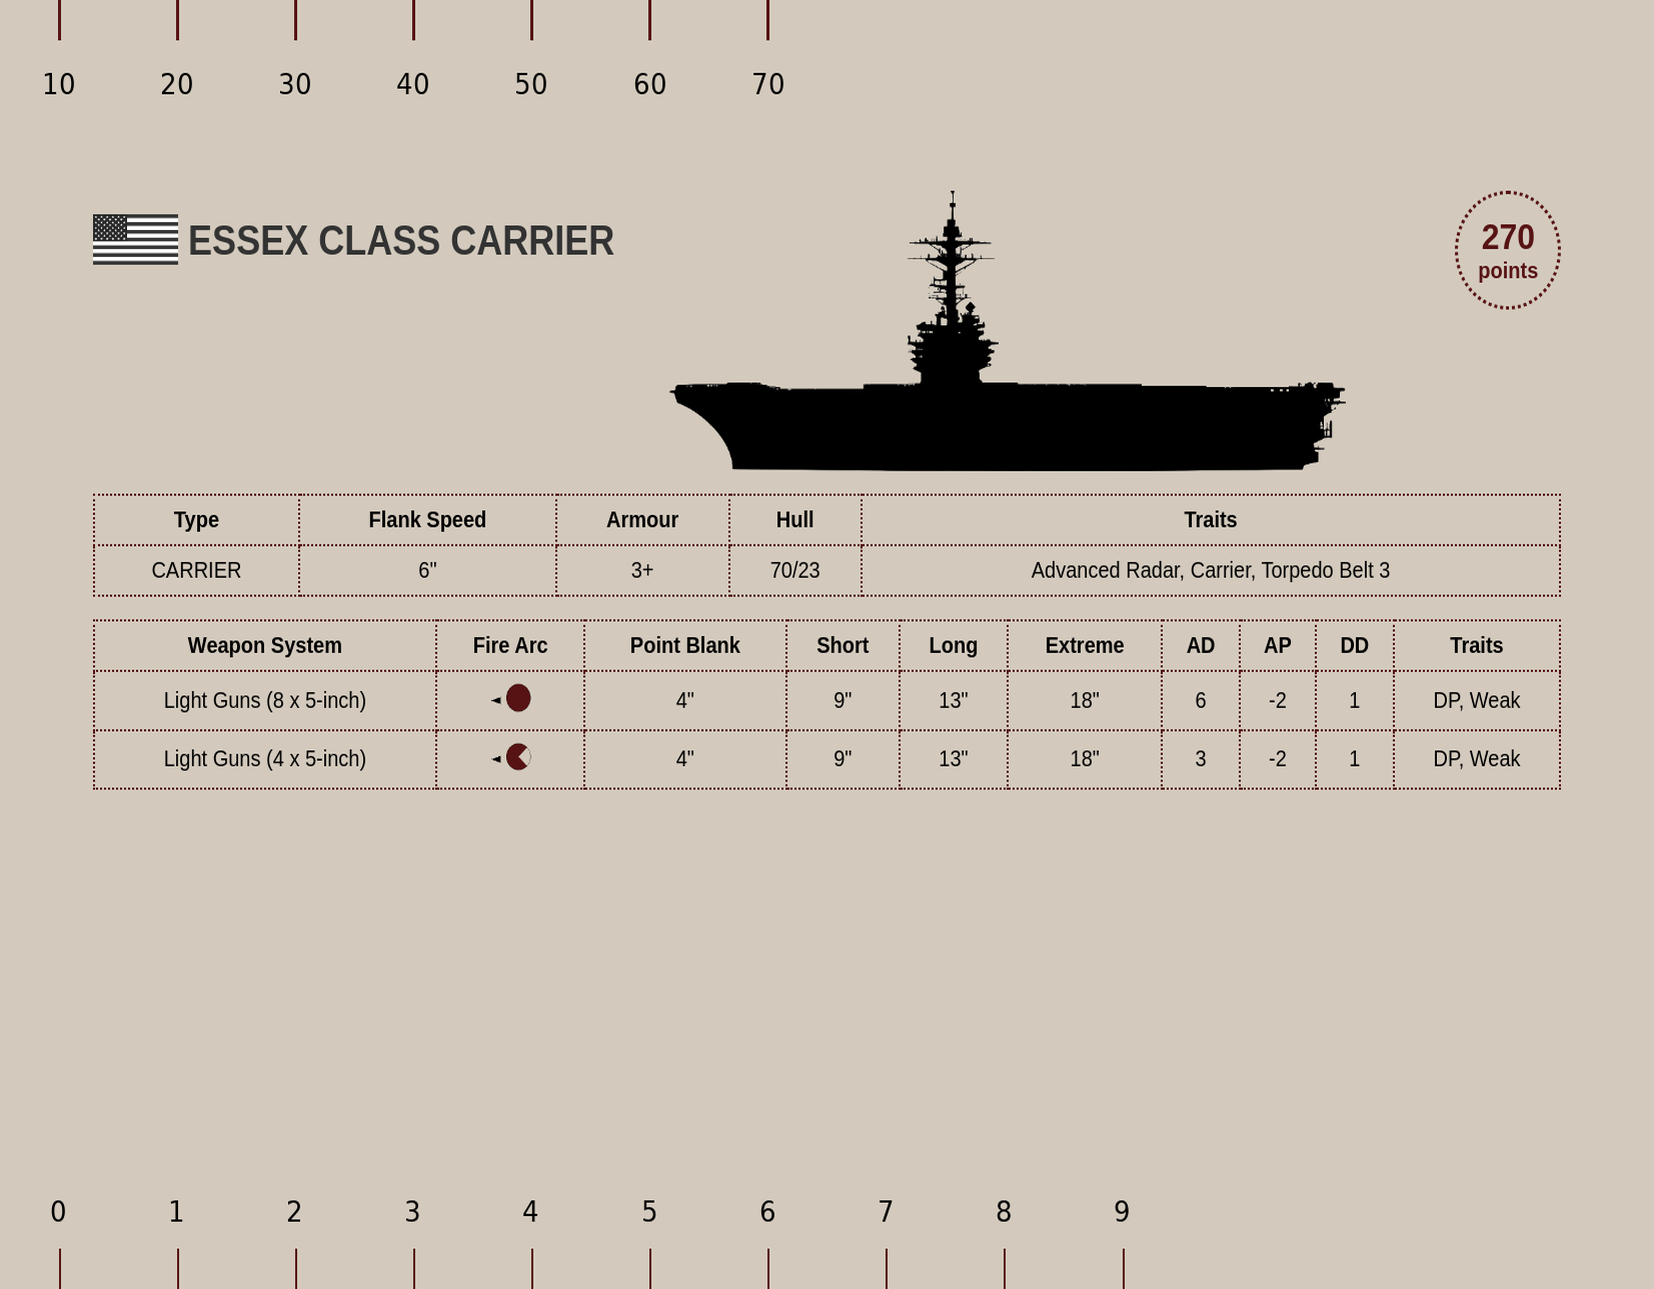
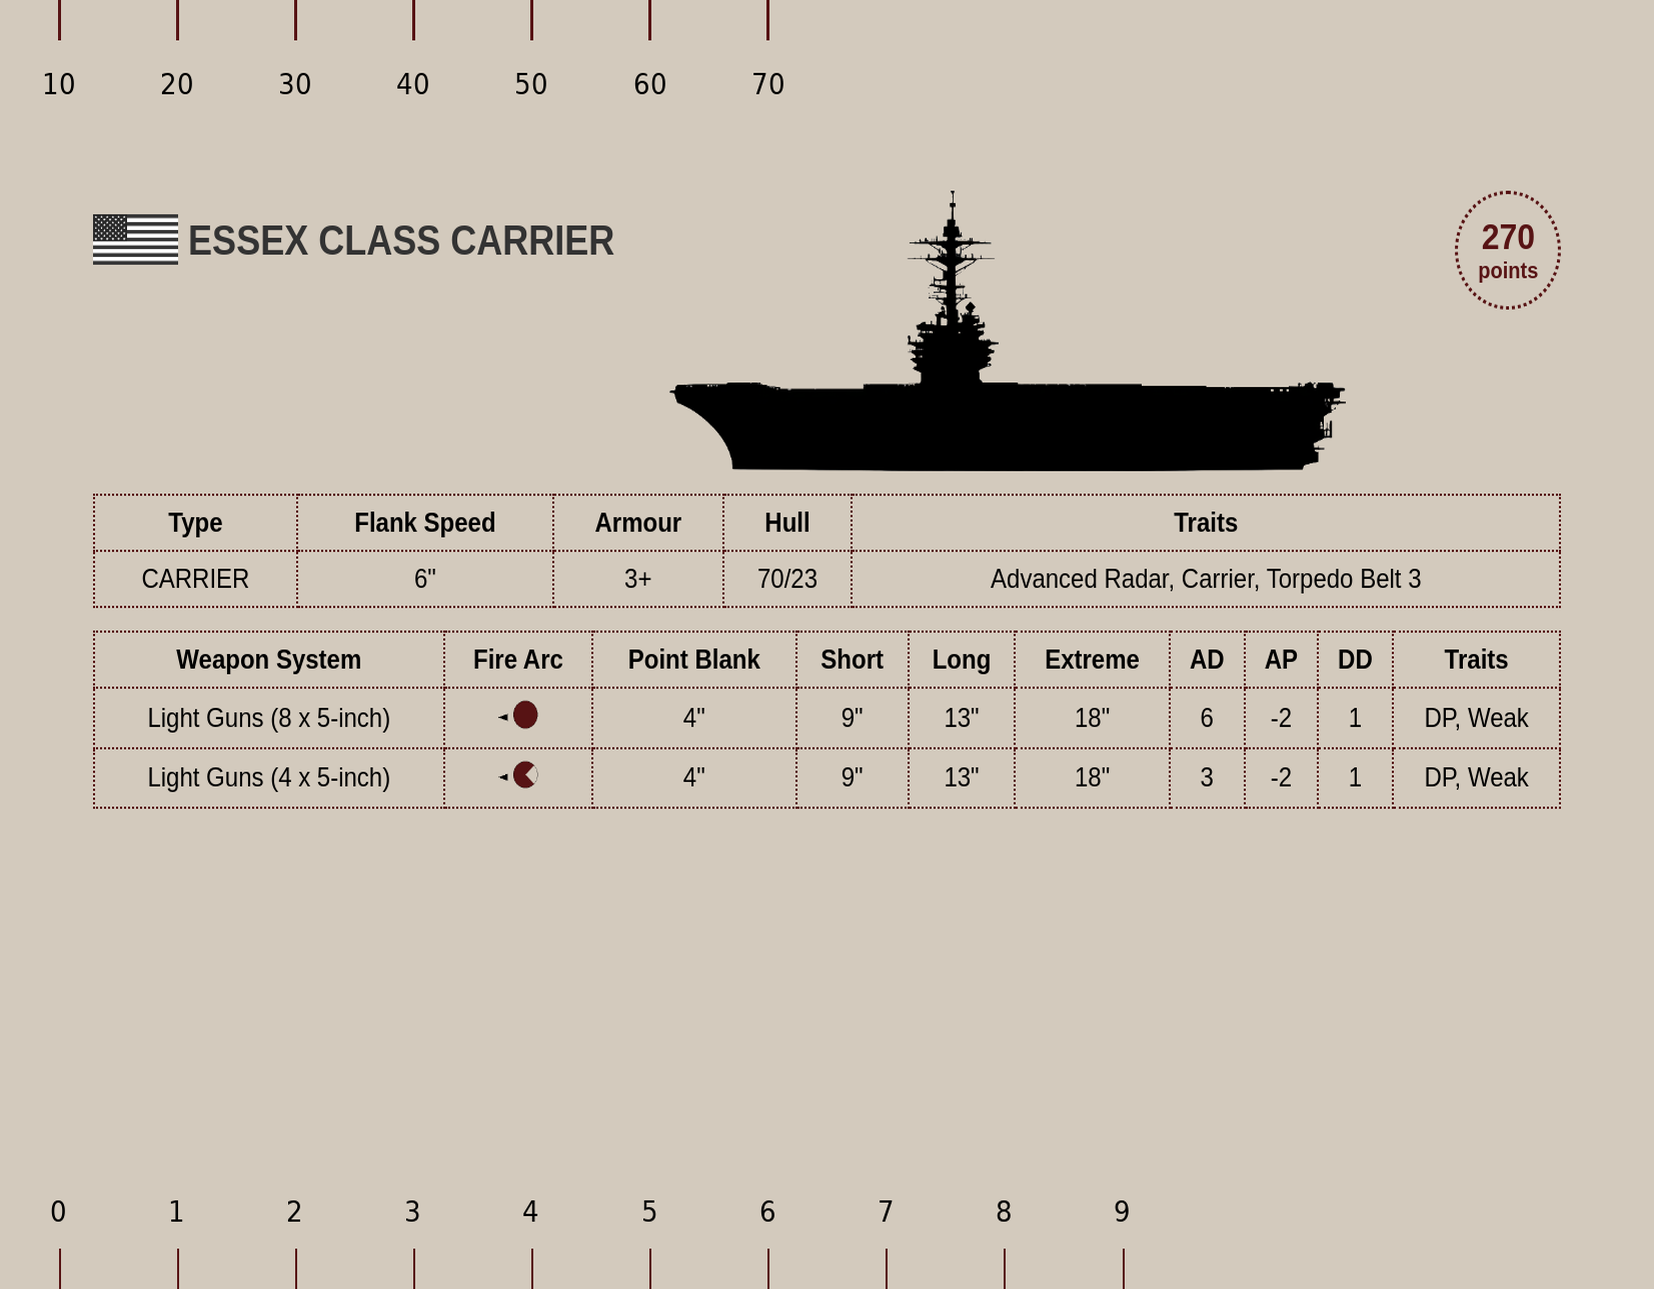
⚓

Changed region(s): [[0.0617, 0.3724, 0.925, 0.6206]]

diff --git a/shipcard.html b/shipcard.html
@@ -97,7 +97,7 @@
             border: 2px dotted #571314;
             padding: 10px;
             text-align: center;
-            font-size: 20px;
+            font-size: 24px;
         }
 
         th {
